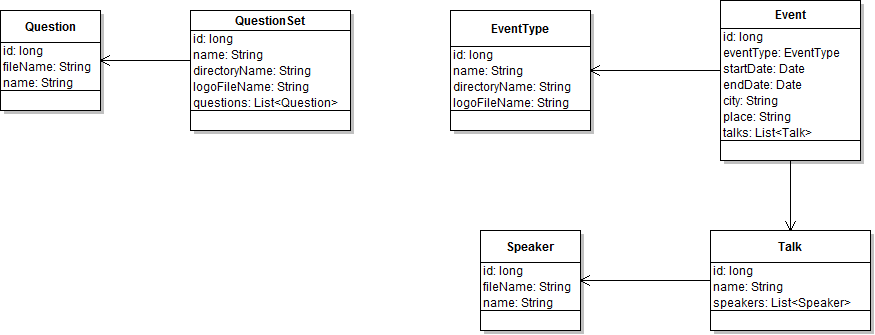
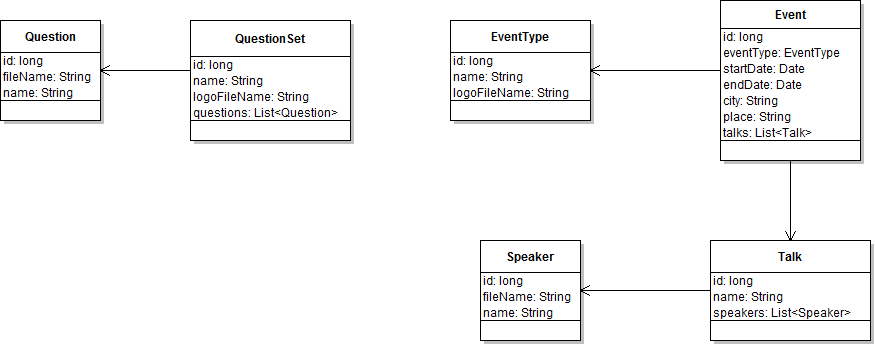
Delete directory name

diff --git a/guess-game-server/src/main/java/guess/domain/QuestionSet.java b/guess-game-server/src/main/java/guess/domain/QuestionSet.java
@@ -9,7 +9,6 @@ import java.util.List;
 public class QuestionSet {
     private long id;
     private String name;
-    private String directoryName;
     private String logoFileName;
     private List<SpeakerQuestion> speakerQuestions = Collections.emptyList();
     private List<TalkQuestion> talkQuestions = Collections.emptyList();
@@ -17,10 +16,9 @@ public class QuestionSet {
     public QuestionSet() {
     }
 
-    public QuestionSet(long id, String name, String directoryName, String logoFileName, List<SpeakerQuestion> speakerQuestions, List<TalkQuestion> talkQuestions) {
+    public QuestionSet(long id, String name, String logoFileName, List<SpeakerQuestion> speakerQuestions, List<TalkQuestion> talkQuestions) {
         this.id = id;
         this.name = name;
-        this.directoryName = directoryName;
         this.logoFileName = logoFileName;
         this.speakerQuestions = speakerQuestions;
         this.talkQuestions = talkQuestions;
@@ -40,14 +38,6 @@ public class QuestionSet {
 
     public void setName(String name) {
         this.name = name;
-    }
-
-    public String getDirectoryName() {
-        return directoryName;
-    }
-
-    public void setDirectoryName(String directoryName) {
-        this.directoryName = directoryName;
     }
 
     public String getLogoFileName() {

diff --git a/guess-game-server/src/test/java/guess/dao/QuestionDaoImplTest.java b/guess-game-server/src/test/java/guess/dao/QuestionDaoImplTest.java
@@ -23,7 +23,7 @@ public class QuestionDaoImplTest {
 
             // All questions
             for (SpeakerQuestion speakerQuestion : speakerQuestions) {
-                Path path = Paths.get(String.format("../guess-game-web/src/assets/images/%s/%s", questionSet.getDirectoryName(), speakerQuestion.getFileName()));
+                Path path = Paths.get(String.format("../guess-game-web/src/assets/images/speakers/%s", speakerQuestion.getFileName()));
 
                 Assert.assertTrue(String.format("Image file %s does not exist", path.toString()), Files.exists(path) && Files.isRegularFile(path));
             }

diff --git a/guess-game-server/src/main/java/guess/domain/source/EventType.java b/guess-game-server/src/main/java/guess/domain/source/EventType.java
@@ -9,7 +9,6 @@ import java.util.List;
 public class EventType {
     private long id;
     private List<LocaleItem> name;
-    private String directoryName;
     private String logoFileName;
     private List<Event> events = new ArrayList<>();
 
@@ -27,14 +26,6 @@ public class EventType {
 
     public void setName(List<LocaleItem> name) {
         this.name = name;
-    }
-
-    public String getDirectoryName() {
-        return directoryName;
-    }
-
-    public void setDirectoryName(String directoryName) {
-        this.directoryName = directoryName;
     }
 
     public String getLogoFileName() {

diff --git a/guess-game-server/src/main/java/guess/util/YamlUtils.java b/guess-game-server/src/main/java/guess/util/YamlUtils.java
@@ -73,7 +73,6 @@ public class YamlUtils {
             questionSets.add(new QuestionSet(
                     eventType.getId(),
                     LocalizationUtils.getEnglishName(eventType.getName()),
-                    eventType.getDirectoryName(),
                     eventType.getLogoFileName(),
                     QuestionUtils.removeDuplicatesByFileName(speakerQuestions),
                     QuestionUtils.removeDuplicatesById(talkQuestions)));
